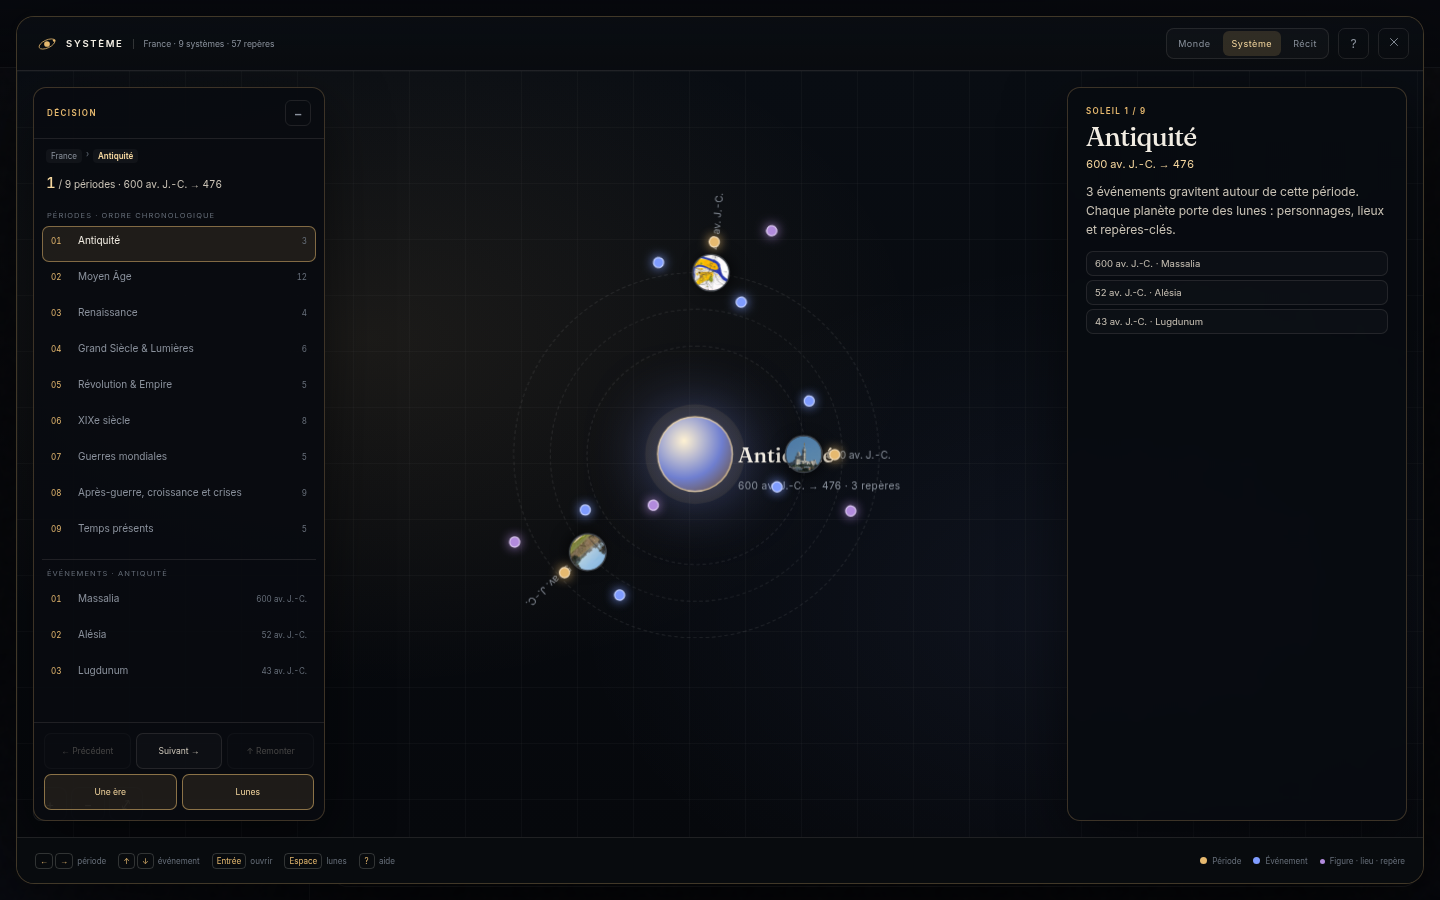
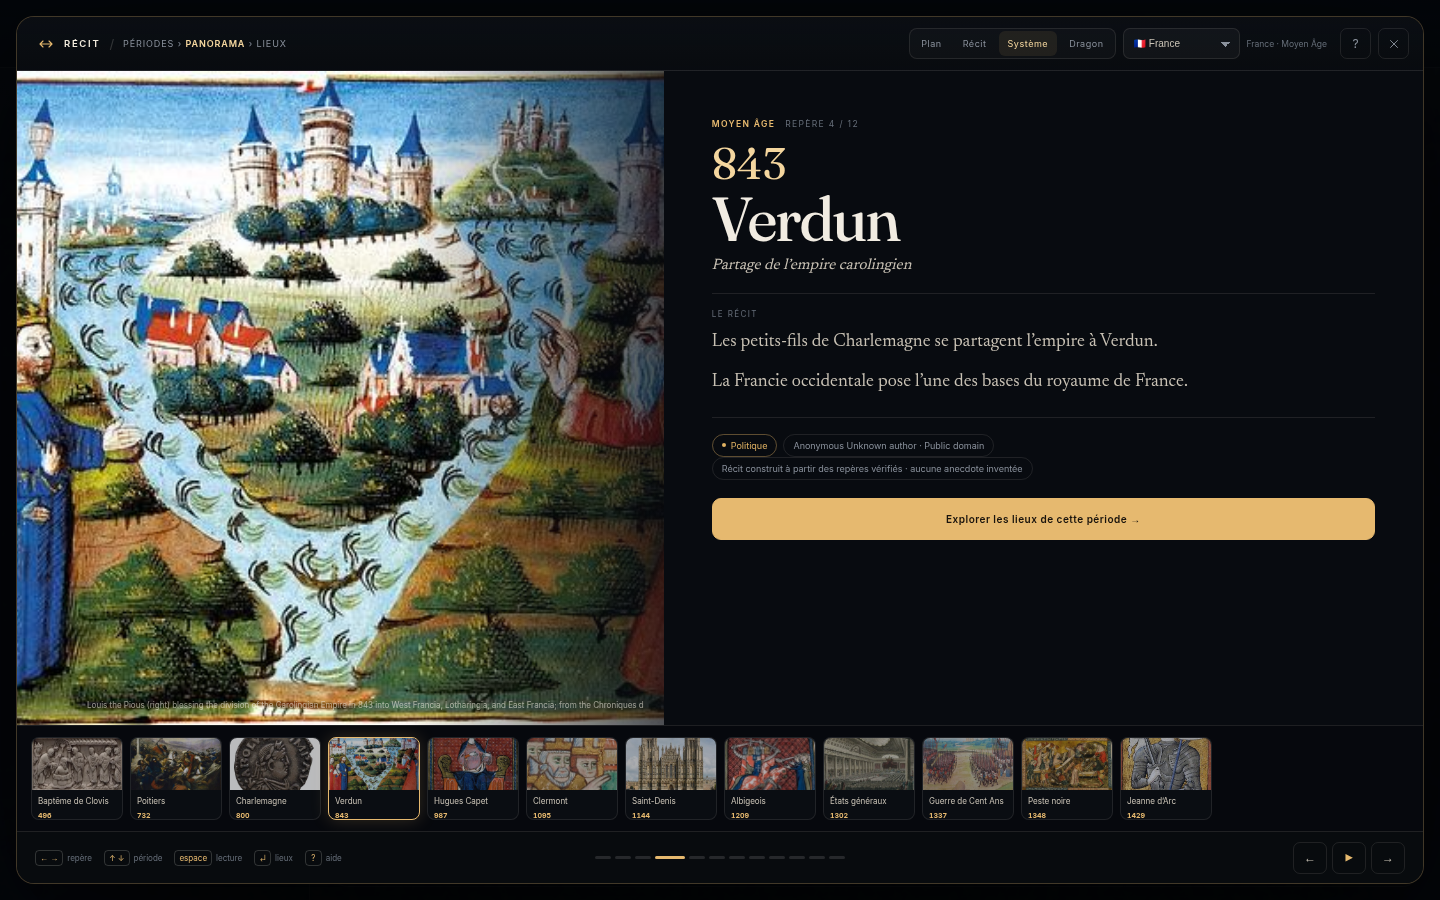
Chantier 5 : coherence complete entre Systeme et Recit
- onglet Systeme dans le Recit, retour a la meme planete
- synchronisation bidirectionnelle pays/ere/evenement
- parcours clavier complet teste : globe, systeme, article, recit, retour
- audit externe et plan directeur marques termines

diff --git a/story.js b/story.js
@@ -863,6 +863,7 @@
     els.close = document.getElementById('story-close');
     els.openBtn = document.getElementById('story-btn');
     els.storyCountry = document.getElementById('story-country');
+    els.storySystemBtn = document.getElementById('story-system-btn');
     els.storyDragonBtn = document.getElementById('story-dragon-btn');
     els.help = document.getElementById('story-help');
     els.helpGrid = document.getElementById('story-help-grid');
@@ -884,6 +885,18 @@
   function bind() {
     els.openBtn?.addEventListener('click', () => open());
     els.storyDragonBtn?.addEventListener('click', close);
+    els.storySystemBtn?.addEventListener('click', () => {
+      const snapshot = {
+        countryId: state.story?.country.id,
+        eraIndex: state.eraIndex,
+        planetIndex: state.eventIndex,
+      };
+      close({ restoreFocus: false });
+      window.setTimeout(() => {
+        window.VECTEMPOREL_SOLAR?.open(snapshot.countryId);
+        window.VECTEMPOREL_SOLAR?.setSelection(snapshot);
+      }, 60);
+    });
     els.close?.addEventListener('click', close);
     els.overlay?.querySelector('[data-close-story]')?.addEventListener('click', close);
     els.prev?.addEventListener('click', previous);
@@ -942,6 +955,11 @@
       state.eventIndex = 0;
       render();
     },
+    selection: () => ({
+      countryId: state.story?.country.id,
+      eraIndex: state.eraIndex,
+      planetIndex: state.eventIndex,
+    }),
     state: () => ({
       mode: state.mode,
       era: state.eraIndex,

diff --git a/solar.js b/solar.js
@@ -668,9 +668,11 @@
     els.recitBtn?.addEventListener('click', () => {
       window.VECTEMPOREL_STORY?.setSelection?.(state.countryId, state.eraIndex, state.planetIndex);
       state.open = false;
-      els.overlay.classList.add('is-open');
-      window.VECTEMPOREL_STORY?.open(state.countryId, 'panorama');
-      window.setTimeout(() => { if (!state.open) els.overlay.hidden = true; }, 300);
+      els.overlay.classList.remove('is-open');
+      window.setTimeout(() => {
+        els.overlay.hidden = true;
+        window.VECTEMPOREL_STORY?.open(state.countryId, 'panorama');
+      }, 300);
     });
     const syncScopeButtons = () => {
       if (els.scope) {
@@ -758,6 +760,19 @@
     open,
     close,
     fit,
+    setSelection: ({ countryId, eraIndex, planetIndex } = {}) => {
+      if (countryId && countryId !== state.countryId && state.system) {
+        const country = COUNTRIES.find((item) => item.id === countryId);
+        if (country) {
+          state.system = buildSystem(countryId);
+          state.countryId = countryId;
+        }
+      }
+      const era = clamp(eraIndex || 0, 0, state.system.eras.length - 1);
+      const planets = state.system.eras[era].planets;
+      const planet = clamp(planetIndex || 0, 0, Math.max(0, planets.length - 1));
+      select('planet', era, planet, 0);
+    },
     state: () => ({ ...state, countryId: state.countryId }),
   };
 })();

diff --git a/index.html b/index.html
@@ -480,6 +480,7 @@
             <div class="mode-tabs">
               <button class="mode-tab" id="story-plan-btn" data-view-tab="plan" type="button" aria-label="Retour au plan">Plan</button>
               <span class="mode-tab" data-view-tab="recit">Récit</span>
+              <button class="mode-tab" id="story-system-btn" data-view-tab="systeme" type="button" aria-label="Passer au système solaire">Système</button>
               <button class="mode-tab" id="story-dragon-btn" data-view-tab="dragon" type="button" aria-label="Passer à la queue du dragon">Dragon</button>
             </div>
             <select class="dragon-select" id="story-country" aria-label="Choisir un pays"></select>

diff --git a/UX_EXPERT_AUDIT.md b/UX_EXPERT_AUDIT.md
@@ -51,10 +51,10 @@ Rôles ARIA `tree`/`treeitem`, `aria-selected`, focus visible, `aria-pressed` su
 Acceptation : WCAG 2.1.1 / 2.4.7 / 1.1.1 ; parcours complet clavier souris éteinte, 0 erreur.
 *Statut : partiel — rôles `tree`/`treeitem`, `aria-selected`, `role=status`, `aria-pressed`, focus visible et alternatives textuelles en place ; relecture lecteur d’écran à faire.*
 
-### Chantier 5 — Cohérence des trois modes (partiel)
+### Chantier 5 — Cohérence des trois modes (fait)
 Un seul état partagé entre Monde, Système et Récit ; même fil d'Ariane, même sélection, même vocabulaire (ère / événement / détail). Aiguillage par intention : « suivre la chronologie », « écouter le récit », « voir la carte ».
 Acceptation : changer de mode conserve pays, ère et événement ; l'utilisateur peut énoncer où il est dans n'importe quel mode.
-*Statut : partiel — le Système transmet pays, ère et événement au Récit ; le retour Récit → Système reste à synchroniser.*
+*Statut : livré — le Système transmet pays, ère et événement au Récit ; l'onglet « Système » du Récit rouvre la même planète.*
 
 ## 4. Ordre recommandé
 

diff --git a/APP_PLAN.md b/APP_PLAN.md
@@ -201,7 +201,7 @@ Aucune vue ne lit un fichier autre que ceux-ci. Aucune vue n’écrit dans `data
 | **P3 — Frise & globe** | Sélecteur de pays intégré, recherche, retour Plan | La frise n’est plus qu’un outil de consultation, pas un labyrinthe. |
 | **P4 — Évaluation** | Test utilisateur, kappa, sign-off | 20 participants, tâches « trouver / raconter / situer ». |
 
-**État actuel : nouvelle structure livrée + chantiers 1, 2 et 3 de l'audit externe (`UX_EXPERT_AUDIT.md`) ; chantiers 4 et 5 partiels.** Le Monde 3D est le menu principal ; un pays ouvre le Système solaire (soleils, planètes, lunes). Le Récit et sa carte satellite restent accessibles depuis le Système. L'ancien tourbillon est conservé dans le code mais retiré du parcours principal.
+**État actuel : nouvelle structure livrée + chantiers 1, 2 et 3 de l'audit externe (`UX_EXPERT_AUDIT.md`) ; chantiers 4 et 5 livrés.** Le Monde 3D est le menu principal ; un pays ouvre le Système solaire (soleils, planètes, lunes). Le Récit et sa carte satellite restent accessibles depuis le Système. L'ancien tourbillon est conservé dans le code mais retiré du parcours principal.
 
 ---
 
